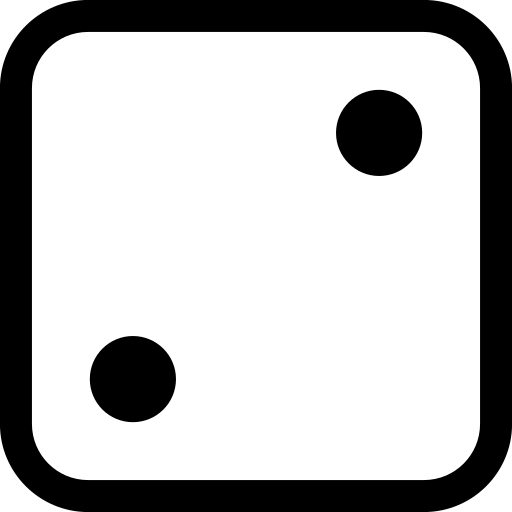
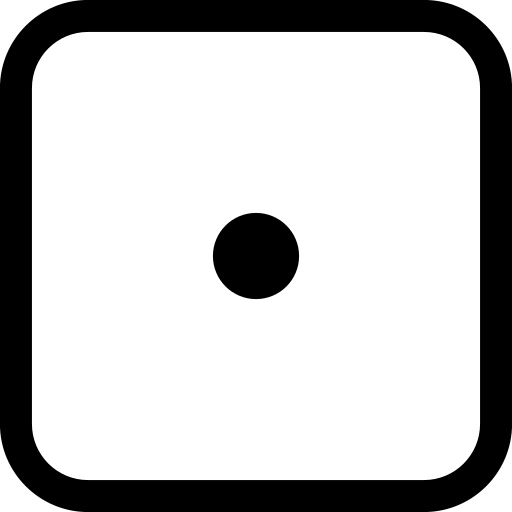
Roll Dice Buttons Function added

Changed region(s): [[0.4062, 0.4062, 0.5938, 0.5938], [0.6562, 0.1562, 0.8438, 0.3438], [0.1562, 0.6562, 0.3438, 0.8438]]

diff --git a/Yazty.Html b/Yazty.Html
@@ -9,7 +9,7 @@
 </head>
 <body>
 
-    <!-- Init Dice-->>
+    <!-- Init Dice-->
     <script>
         window.dice = new Roll();
         window.rollHistory = new RollHistory();
@@ -26,10 +26,10 @@
     </header>
 
     <!-- Player Selection -->
-    <section>
+    <!-- <section>
         <button>1 Player</button>
         <button>2 Players (local)</button>
-    </section>
+    </section> -->
 
     <!-- Game Area -->
     <main>
@@ -38,26 +38,26 @@
         <div>
             <h2>User 1</h2>
             <div>
-                <button>Dice 1</button>
-                <button>Dice 2</button>
-                <button>Dice 3</button>
-                <button>Dice 4</button>
-                <button>Dice 5</button>
+                <img id="die1" src="dice(1).png" alt="Die 1">
+                <img id="die2" src="dice(1).png" alt="Die 2">
+                <img id="die3" src="dice(1).png" alt="Die 3">
+                <img id="die4" src="dice(1).png" alt="Die 4">
+                <img id="die5" src="dice(1).png" alt="Die 5">
             </div>
-            <button class="roll">Roll Die</button>
+            <button onclick="RollButtonPlayer1()" class="roll">Roll Die</button>
         </div>
 
         <!-- User 2 Area -->
         <div>
             <h2>User 2</h2>
             <div>
-                <button>Dice 1</button>
-                <button>Dice 2</button>
-                <button>Dice 3</button>
-                <button>Dice 4</button>
-                <button>Dice 5</button>
+                <img id="die6" src="dice(1).png" alt="Die 1">
+                <img id="die7" src="dice(1).png" alt="Die 2">
+                <img id="die8" src="dice(1).png" alt="Die 3">
+                <img id="die9" src="dice(1).png" alt="Die 4">
+                <img id="die10" src="dice(1).png" alt="Die 5">
             </div>
-            <button class="roll">Roll Die</button>
+            <button onclick="RollButtonPlayer2()" class="roll">Roll Die</button>
         </div>
 
         <!-- Score Table -->
@@ -125,6 +125,7 @@
         </ul>
 
     </section>
+
 
 </body>
 </html>

diff --git a/YatzyEngine.js b/YatzyEngine.js
@@ -191,3 +191,44 @@ scoreboard.addYahtzeeBonus();            // Third Yahtzee, adds another 100 bonu
 
 // Display the scoreboard and total score
 scoreboard.displayScoreboard();
+
+
+function RollButtonPlayer1() {
+    const roll = new Roll(); // Create a new roll instance
+    const rollHistory = new RollHistory(); // Create a new roll history instance
+
+    // Roll multiple times and add each result to history
+    for (let i = 0; i < 5; i++) {
+        roll.roll(); // Generate a new roll
+        rollHistory.addRoll(roll.result); // Add the roll to history
+    }
+
+    const playersroll = rollHistory.getHistory();
+    console.log(playersroll);
+
+    playersroll.forEach((number, index) => {
+        console.log(number, index); 
+        const imageElement = document.getElementById("die" + (index + 1));
+        imageElement.src = "dice(" + number + ").png";
+    });
+}
+
+function RollButtonPlayer2() {
+    const roll = new Roll(); // Create a new roll instance
+    const rollHistory = new RollHistory(); // Create a new roll history instance
+
+    // Roll multiple times and add each result to history
+    for (let i = 0; i < 5; i++) {
+        roll.roll(); // Generate a new roll
+        rollHistory.addRoll(roll.result); // Add the roll to history
+    }
+
+    const playersroll = rollHistory.getHistory();
+    console.log(playersroll);
+
+    playersroll.forEach((number, index) => {
+        console.log(number, index); 
+        const imageElement = document.getElementById("die" + (index + 6));
+        imageElement.src = "dice(" + number + ").png";
+    });
+}

diff --git a/Style.css b/Style.css
@@ -74,8 +74,8 @@ main h2 {
     color: #555;
 }
 
-/* Dice buttons */
-main div button {
+/* Dice img */
+main div img {
     width: 50px;
     height: 50px;
     font-size: 1em;
@@ -147,7 +147,7 @@ td {
 table tr:last-child {
     font-weight: bold;
     background-color: #2196F3;
-    color: white;
+    color: black;
 }
 
 html {

diff --git a/Dice.js b/Dice.js
@@ -43,3 +43,4 @@ for (let i = 0; i < 5; i++) {
 console.log("Roll History:", rollHistory.getHistory()); // Display the roll history
 rollHistory.clearHistory(); // Clear history
 console.log("History after clearing:", rollHistory.getHistory());
+
